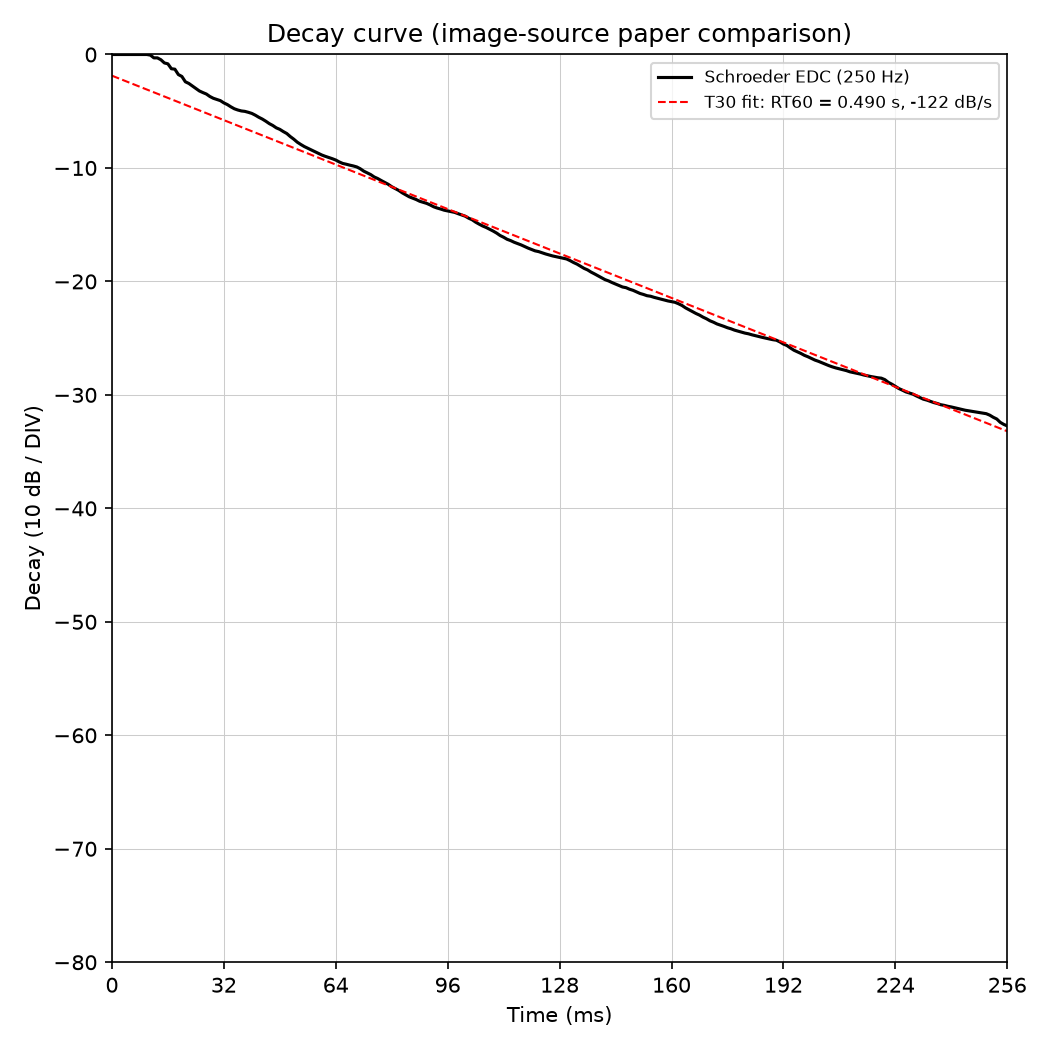
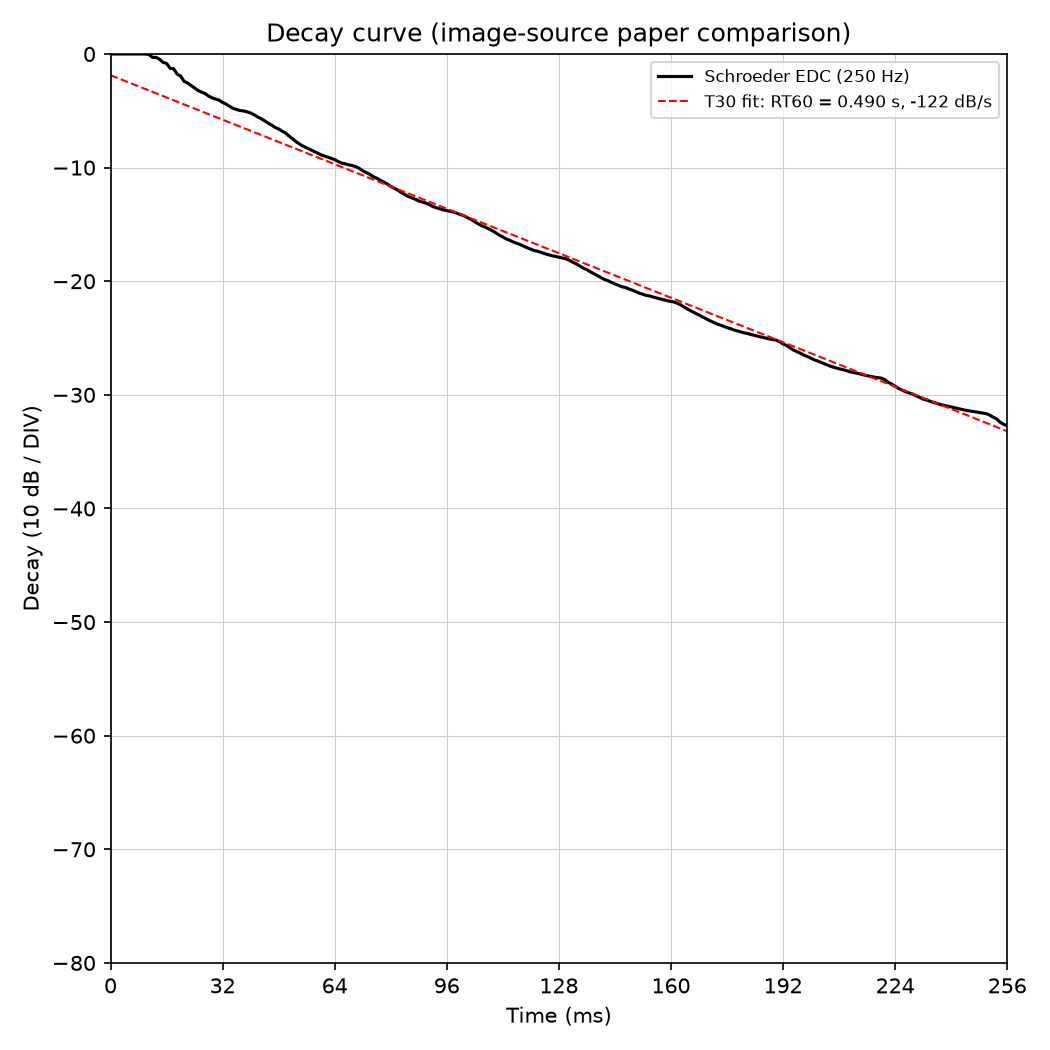
changed graph limit for comparison with ISM

diff --git a/plot_rir.py b/plot_rir.py
@@ -191,7 +191,7 @@ def main() -> None:
         else:
             x_max = time_ms[-1]
 
-    fig, (ax_total, ax_bands) = plt.subplots(2, 1, figsize=(10, 7), sharex=True)
+    fig, (ax_total, ax_bands) = plt.subplots(2, 1, figsize=(6, 10), sharex=True)
 
     # Broadband RIR energy decay.
     ax_total.bar(time_ms, total, width=np.diff(time_ms, append=time_ms[-1]),
@@ -207,7 +207,15 @@ def main() -> None:
     ax_bands.set_title("Per-octave-band energy")
     ax_bands.legend(ncol=4, fontsize=8)
 
-    ax_total.set_xlim(0, x_max)  # shared axis crops both subplots
+    # The ISM paper figures all stop at 256 ms, so cap the energy-arrival
+    # plots there for a like-for-like comparison.
+    x_limit = min(x_max, 256.0)
+    ax_total.set_xlim(0, x_limit)  # shared axis crops both subplots
+    for ax in (ax_total, ax_bands):
+        ax.set_box_aspect(1)  # force each panel to a square box
+        # 10 equal divisions along x -> 9 interior gridlines.
+        ax.xaxis.set_major_locator(MultipleLocator(x_limit / 10.0))
+        ax.grid(True, axis="x", color="0.8", linewidth=0.5)
     fig.tight_layout()
     fig.savefig("rir_plot.png", dpi=150)
 
